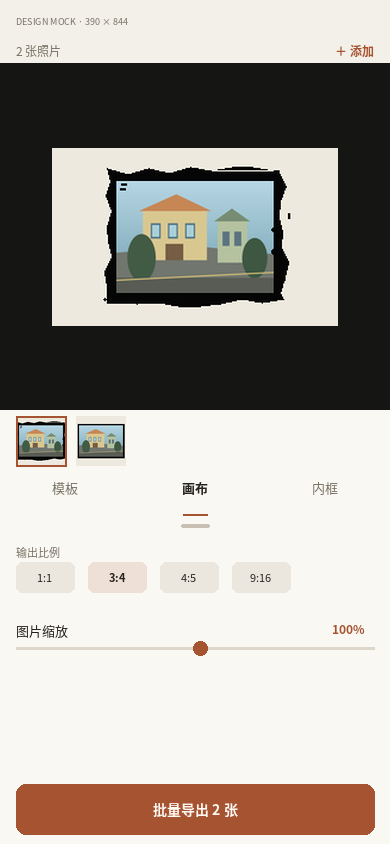
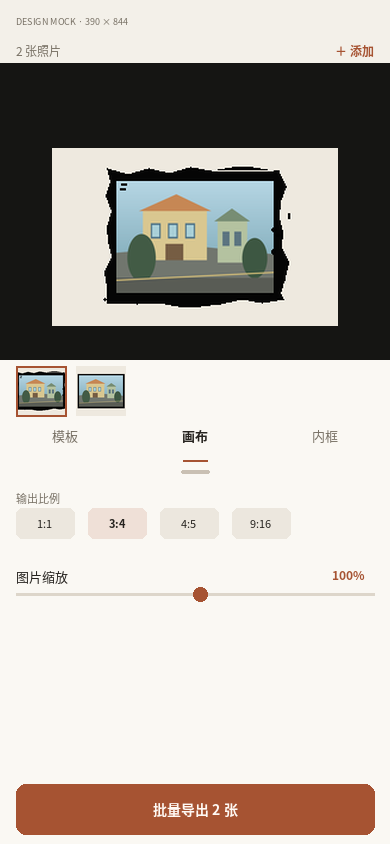
design: fit editor controls without vertical scrolling

diff --git a/tests/editor-workspace.test.js b/tests/editor-workspace.test.js
@@ -17,13 +17,15 @@ assert(wxml.includes('onImageZoomChanging'));
 assert(wxml.includes('min="50" max="200"'), 'image scaling must support zooming out and in');
 assert(!wxml.includes('完整显示'), 'non-interactive fit copy should not be shown');
 assert(wxml.includes('displayWidth') && wxml.includes('displayHeight'));
-assert(wxml.includes('class="setting-scroll"'));
+assert(wxml.includes('class="setting-content"'));
+assert(!wxml.includes('scroll-y'), 'the settings panel must not require vertical scrolling');
 assert(wxml.includes('class="thumbnail-strip"'), 'the image strip must remain present');
 assert(wxml.includes('id="preview"'), 'the preview canvas must remain present');
 assert(wxml.includes('bindtap="exportAll"'), 'the export action must remain bound');
 assert(wxml.includes("securityStatus==='rejected'") && wxml.includes("securityStatus==='error'"), 'security exceptions must remain visible on thumbnails');
 assert(wxml.includes('showColorPicker') && wxml.includes('openColorPicker'), 'the color picker must remain available');
-assert(wxml.includes('basic-frame-card'), 'basic frame cards should have their own compact treatment');
+assert(wxml.includes('wx:for="{{innerFrameStyles}}"'), 'all inner frames must share one horizontal selector');
+assert(!wxml.includes('基础内框') && !wxml.includes('片基内框'), 'inner frames must not be split into two selector rows');
 assert(wxml.includes('frame-card-preview') && wxml.includes('item.previewAsset'), 'frame selector must render the style-owned production preview asset');
 assert(wxml.includes('template-card-preview') && wxml.includes('src="{{item.previewAsset}}"'), 'template cards must use the same style-owned artwork as frame cards');
 assert(!wxml.includes('template-photo') && !wxml.includes('template-edge'), 'template cards must not fall back to CSS mock artwork');
@@ -33,8 +35,8 @@ assert(wxss.includes('.workspace') && wxss.includes('overflow: hidden'));
 assert(wxss.includes('.preview-stage') && wxss.includes('.setting-sheet'));
 assert(wxss.includes('--bf-accent') && wxss.includes('--bf-page'), 'gallery palette tokens must be defined');
 assert(!wxss.includes('.main-panel'), 'legacy vertical editor shell should be removed');
-assert(wxss.includes('.frame-style-card, .basic-frame-card { display: inline-flex; width: 112px'), 'film rebate cards should use the larger product preview size');
-assert(wxss.includes('.frame-card-sample, .basic-frame-card .frame-card-sample { position: relative; height: 70px'), 'all frame samples should use the larger product preview height');
+assert(wxss.includes('.frame-style-card { display: inline-flex; width: 112px'), 'inner-frame cards should use the product preview size');
+assert(wxss.includes('.frame-card-sample { position: relative; height: 70px'), 'all frame samples should use the product preview height');
 assert(js.includes('measurePreviewViewport'));
 assert(js.includes('panelScrollTop: 0'));
 assert(js.includes("toolOptions: ['template', 'canvas', 'frame']"));

diff --git a/miniprogram/pages/frame/frame.js b/miniprogram/pages/frame/frame.js
@@ -4,8 +4,6 @@ const { renderComposite } = require('../../core/compositeRenderer.js');
 const { selectMaskVariant, getMaskAssetPaths } = require('../../core/innerFrameRenderer.js');
 const { isFilmFrameStyle } = require('../../core/filmFrameStyle.js');
 const { mergeSecurityResults, summarizeSecurity } = require('../../utils/securityPreflight.js');
-const BASIC_FRAME_STYLES = INNER_FRAME_STYLES.filter(style => !style.category || style.category === 'basic-frame');
-const FILM_REBATE_STYLES = INNER_FRAME_STYLES.filter(style => style.category && style.category.indexOf('film-rebate') === 0);
 const stylePreviewAsset = styleId => (getInnerFrameStyle(styleId) || {}).previewAsset || '/assets/frame-previews/none.png';
 const sys = wx.getWindowInfo();
 const DPR = sys.pixelRatio || 1;
@@ -72,8 +70,6 @@ Page({
     borderPx: 8,
     innerFrameStyleId: 'clean-black',
     innerFrameStyles: INNER_FRAME_STYLES,
-    basicFrameStyles: BASIC_FRAME_STYLES,
-    filmRebateStyles: FILM_REBATE_STYLES,
     edgeStrengthLevel: 'medium',
     edgeStrengthOptions: EDGE_STRENGTHS,
     activeTool: 'template',

diff --git a/tools/generate-ui-v4-mocks.py b/tools/generate-ui-v4-mocks.py
@@ -54,9 +54,9 @@ def draw_editor(active='模板', expanded=True, exporting=False, error=False, fi
     hero = fit_preview('emulsion-damage', (52, 130, 286, 178))
     image.paste(hero, (52, 148))
     if expanded:
-        strip_y = 410
-        tabs_y = 472
-        sheet_y = 516
+        strip_y = 360
+        tabs_y = 420
+        sheet_y = 462
     else:
         strip_y = 566
         tabs_y = 628
@@ -96,16 +96,15 @@ def draw_editor(active='模板', expanded=True, exporting=False, error=False, fi
         draw.line((16, sheet_y + 132, 374, sheet_y + 132), fill=LINE, width=3)
         draw.ellipse((193, sheet_y + 125, 207, sheet_y + 139), fill=ACCENT)
     else:
-        text(draw, (16, sheet_y + 24), '片基内框' if film else '基础内框', 11, MUTED)
         styles = ('film-35mm-mono', 'film-16mm-cinema', 'film-contact-sheet') if film else ('none', 'clean-black', 'emulsion-damage')
         names = ('35mm 黑白', '16mm 电影', '接触印样') if film else ('无内框', '经典细黑边', '乳剂破损边')
         active_style = 'film-16mm-cinema' if film else 'emulsion-damage'
         for index, style in enumerate(styles):
             x = 16 + index * 120
-            image.paste(fit_preview(style, (x, sheet_y + 41, 112, 70)), (x, sheet_y + 41))
+            image.paste(fit_preview(style, (x, sheet_y + 26, 112, 70)), (x, sheet_y + 26))
             if style == active_style:
-                draw.rectangle((x, sheet_y + 41, x + 112, sheet_y + 111), outline=ACCENT, width=2)
-            text(draw, (x + 56, sheet_y + 121), names[index], 10, INK if style == active_style else MUTED, anchor='ma')
+                draw.rectangle((x, sheet_y + 26, x + 112, sheet_y + 96), outline=ACCENT, width=2)
+            text(draw, (x + 56, sheet_y + 106), names[index], 10, INK if style == active_style else MUTED, anchor='ma')
     if exporting:
         draw.rounded_rectangle((16, H - 60, 374, H - 10), radius=10, fill='#B58169')
         text(draw, (195, H - 35), '处理中 1/2', 14, '#FFF9F4', True, 'mm')
